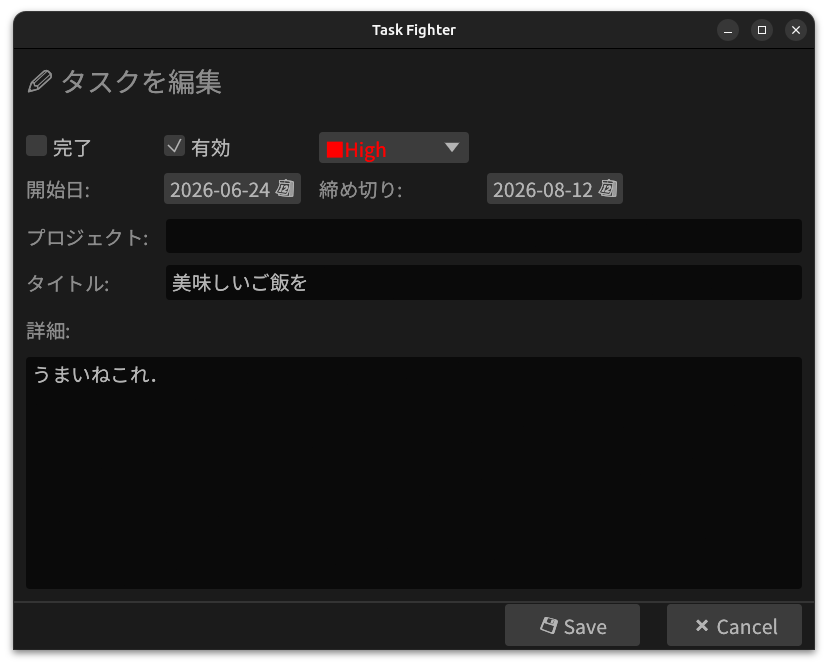
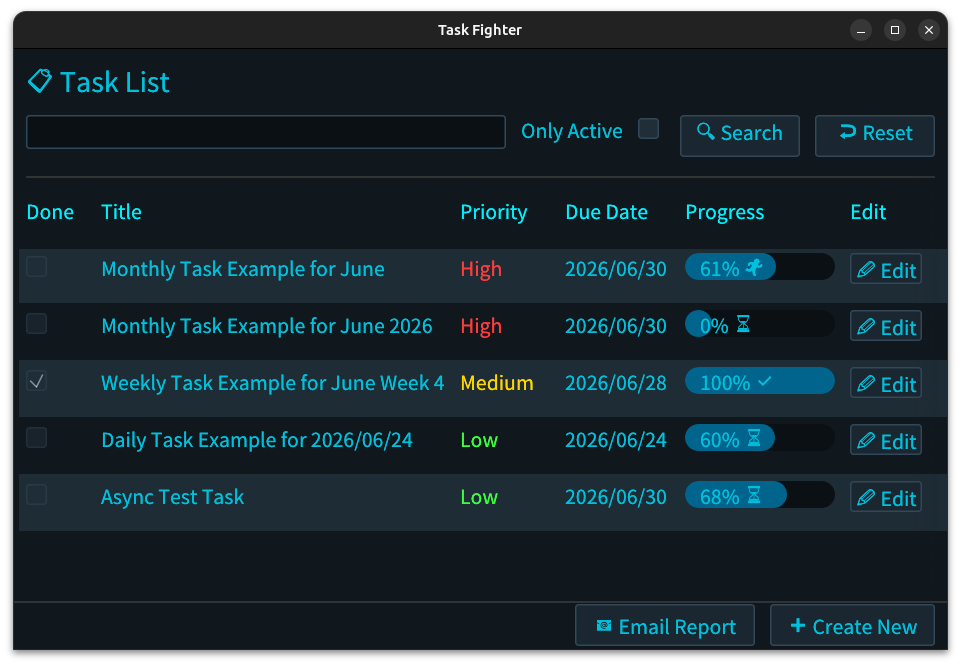
[update] Improve documentation.

diff --git a/README.md b/README.md
@@ -1,12 +1,37 @@
 Task-Fighter
 ==========================================================================
 ![icon.png](./asset/icon.png)
+
 Private task management software with simple UI.
 
 # Screen Shot
 ![Screenshot1](./asset/Screenshot1.png)
 ![Screenshot2](./asset/Screenshot2.png)
 
-# License
-See [LICENSE](./LICENSE).
+# Features
+- **Simple & Intuitive UI**: Built with `egui` for a lightweight and responsive desktop experience.
+- **Privacy First**: Completely local task management application.
+- **High Performance**: Using [DuckDB](https://duckdb.org/) for fast, robust task recording and search.
+- **Automated Task Creation**: Automatically schedules and generates your daily, weekly, and monthly tasks.
+- **Automated Email Creation**: Dynamically generates emails based on your task status or summaries to streamline your workflow.
 
+# Prerequisites
+Make sure you have the Rust toolchain installed (Edition 2024 compliance required). If not, install it from [rustup.rs](https://rustup.rs).
+
+# How to build
+Clone this repository and execute the command below.
+
+```bash
+git clone https://github.com
+cd task-fighter
+cargo build --release
+```
+
+To run the application immediately, use:
+
+```bash
+cargo run --release
+```
+
+# License
+This project is licensed under the Apache License, Version 2.0. See [LICENSE](./LICENSE) for details.
